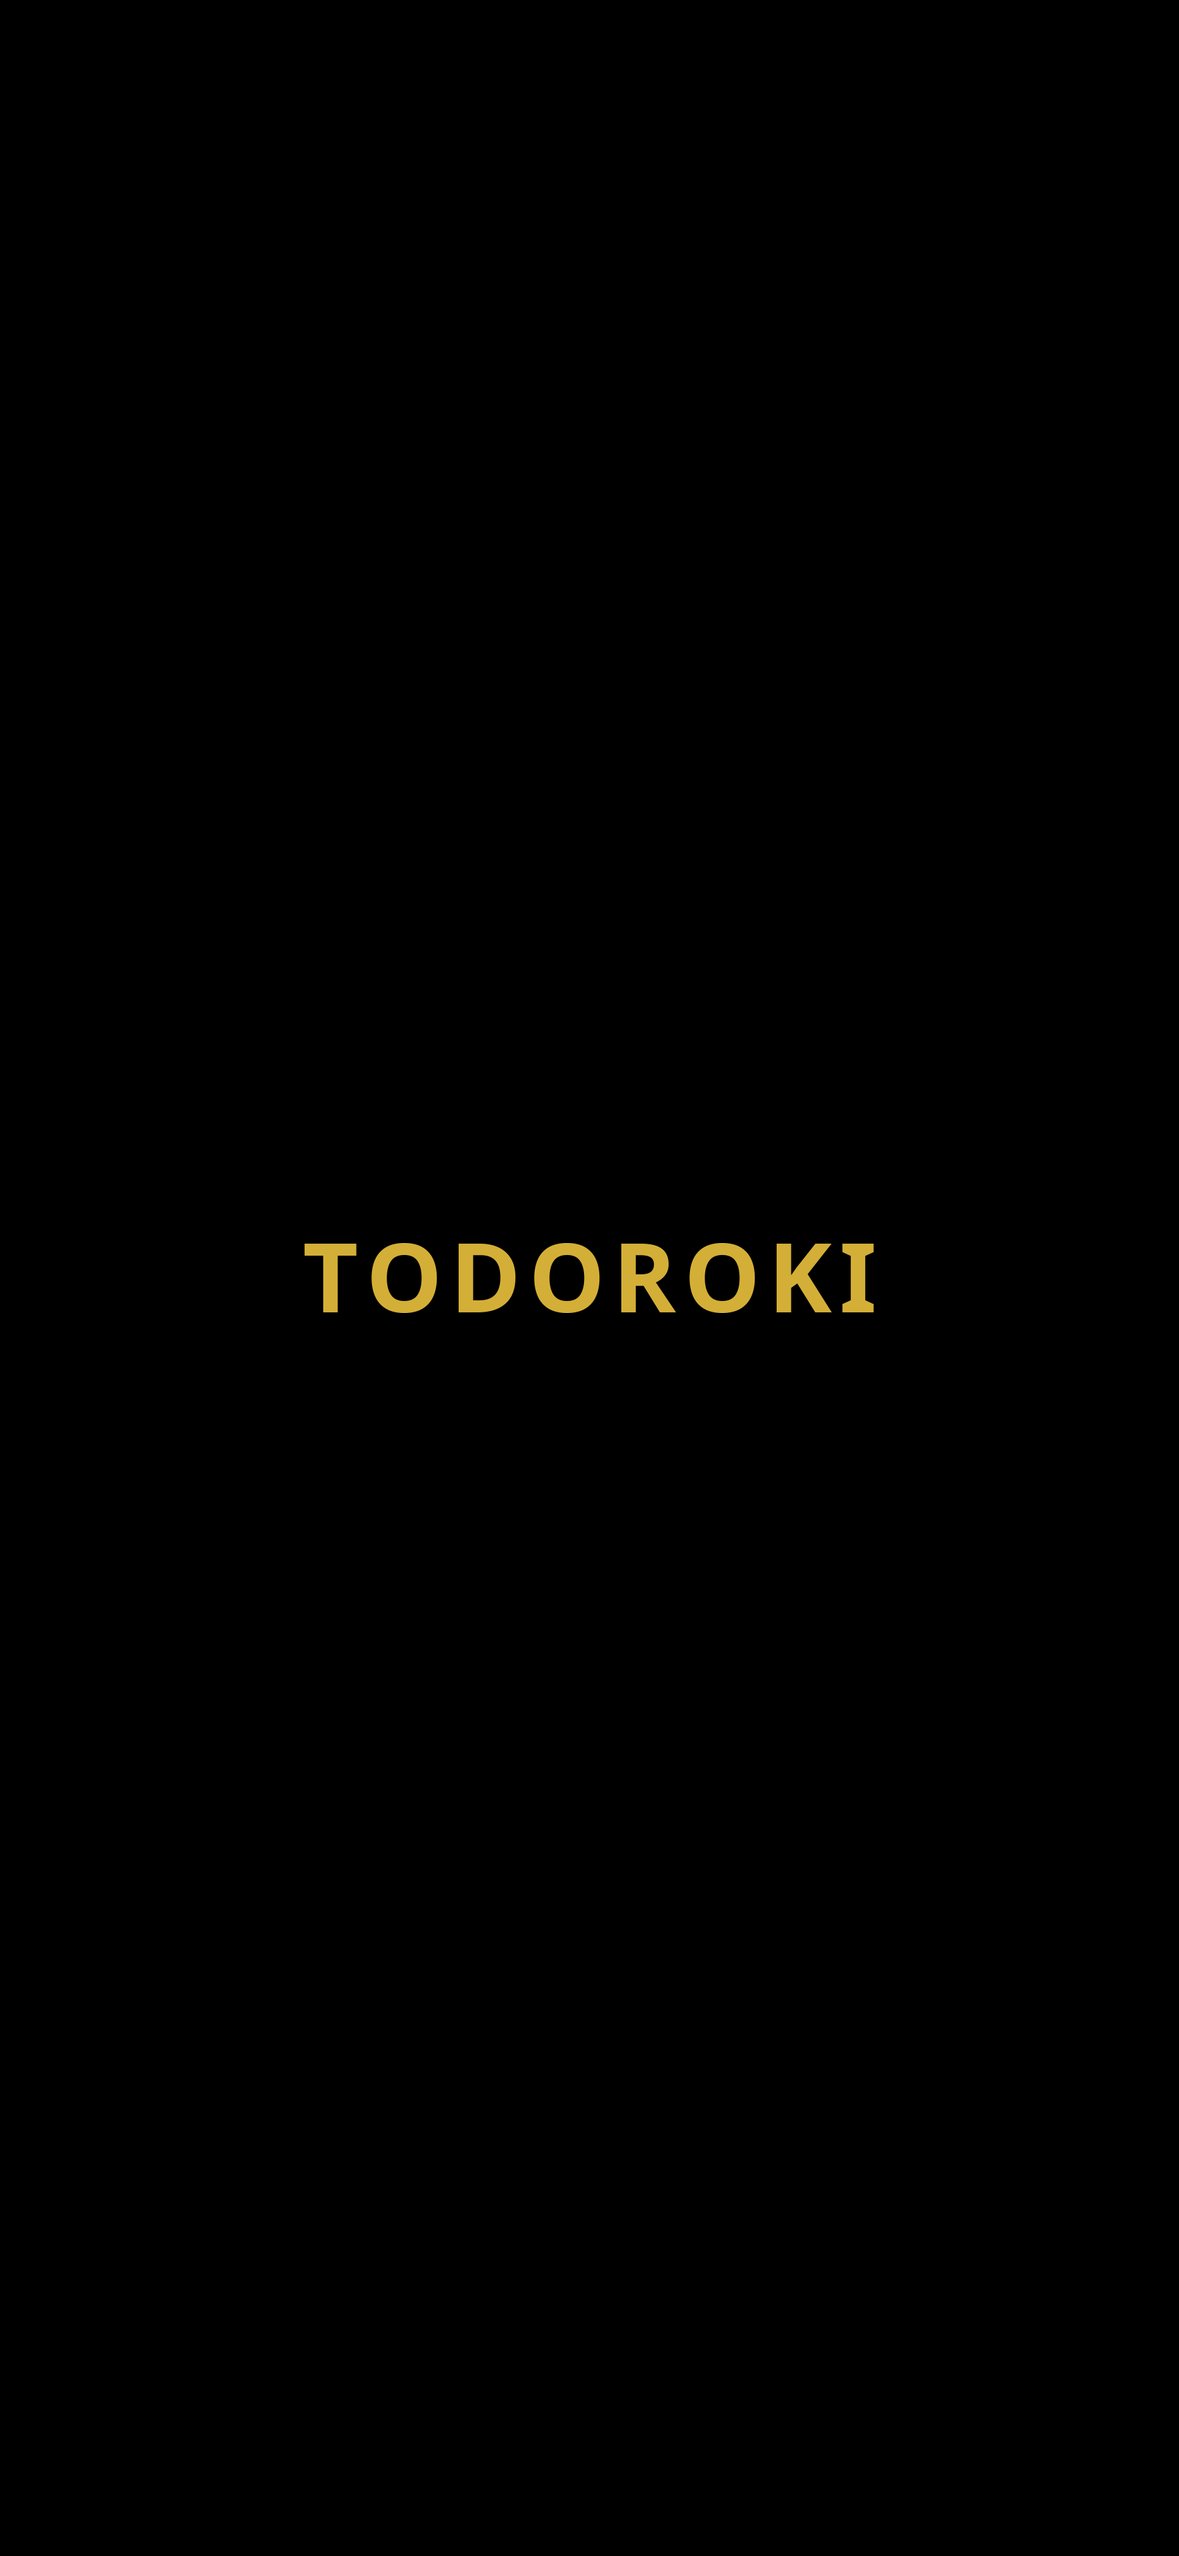
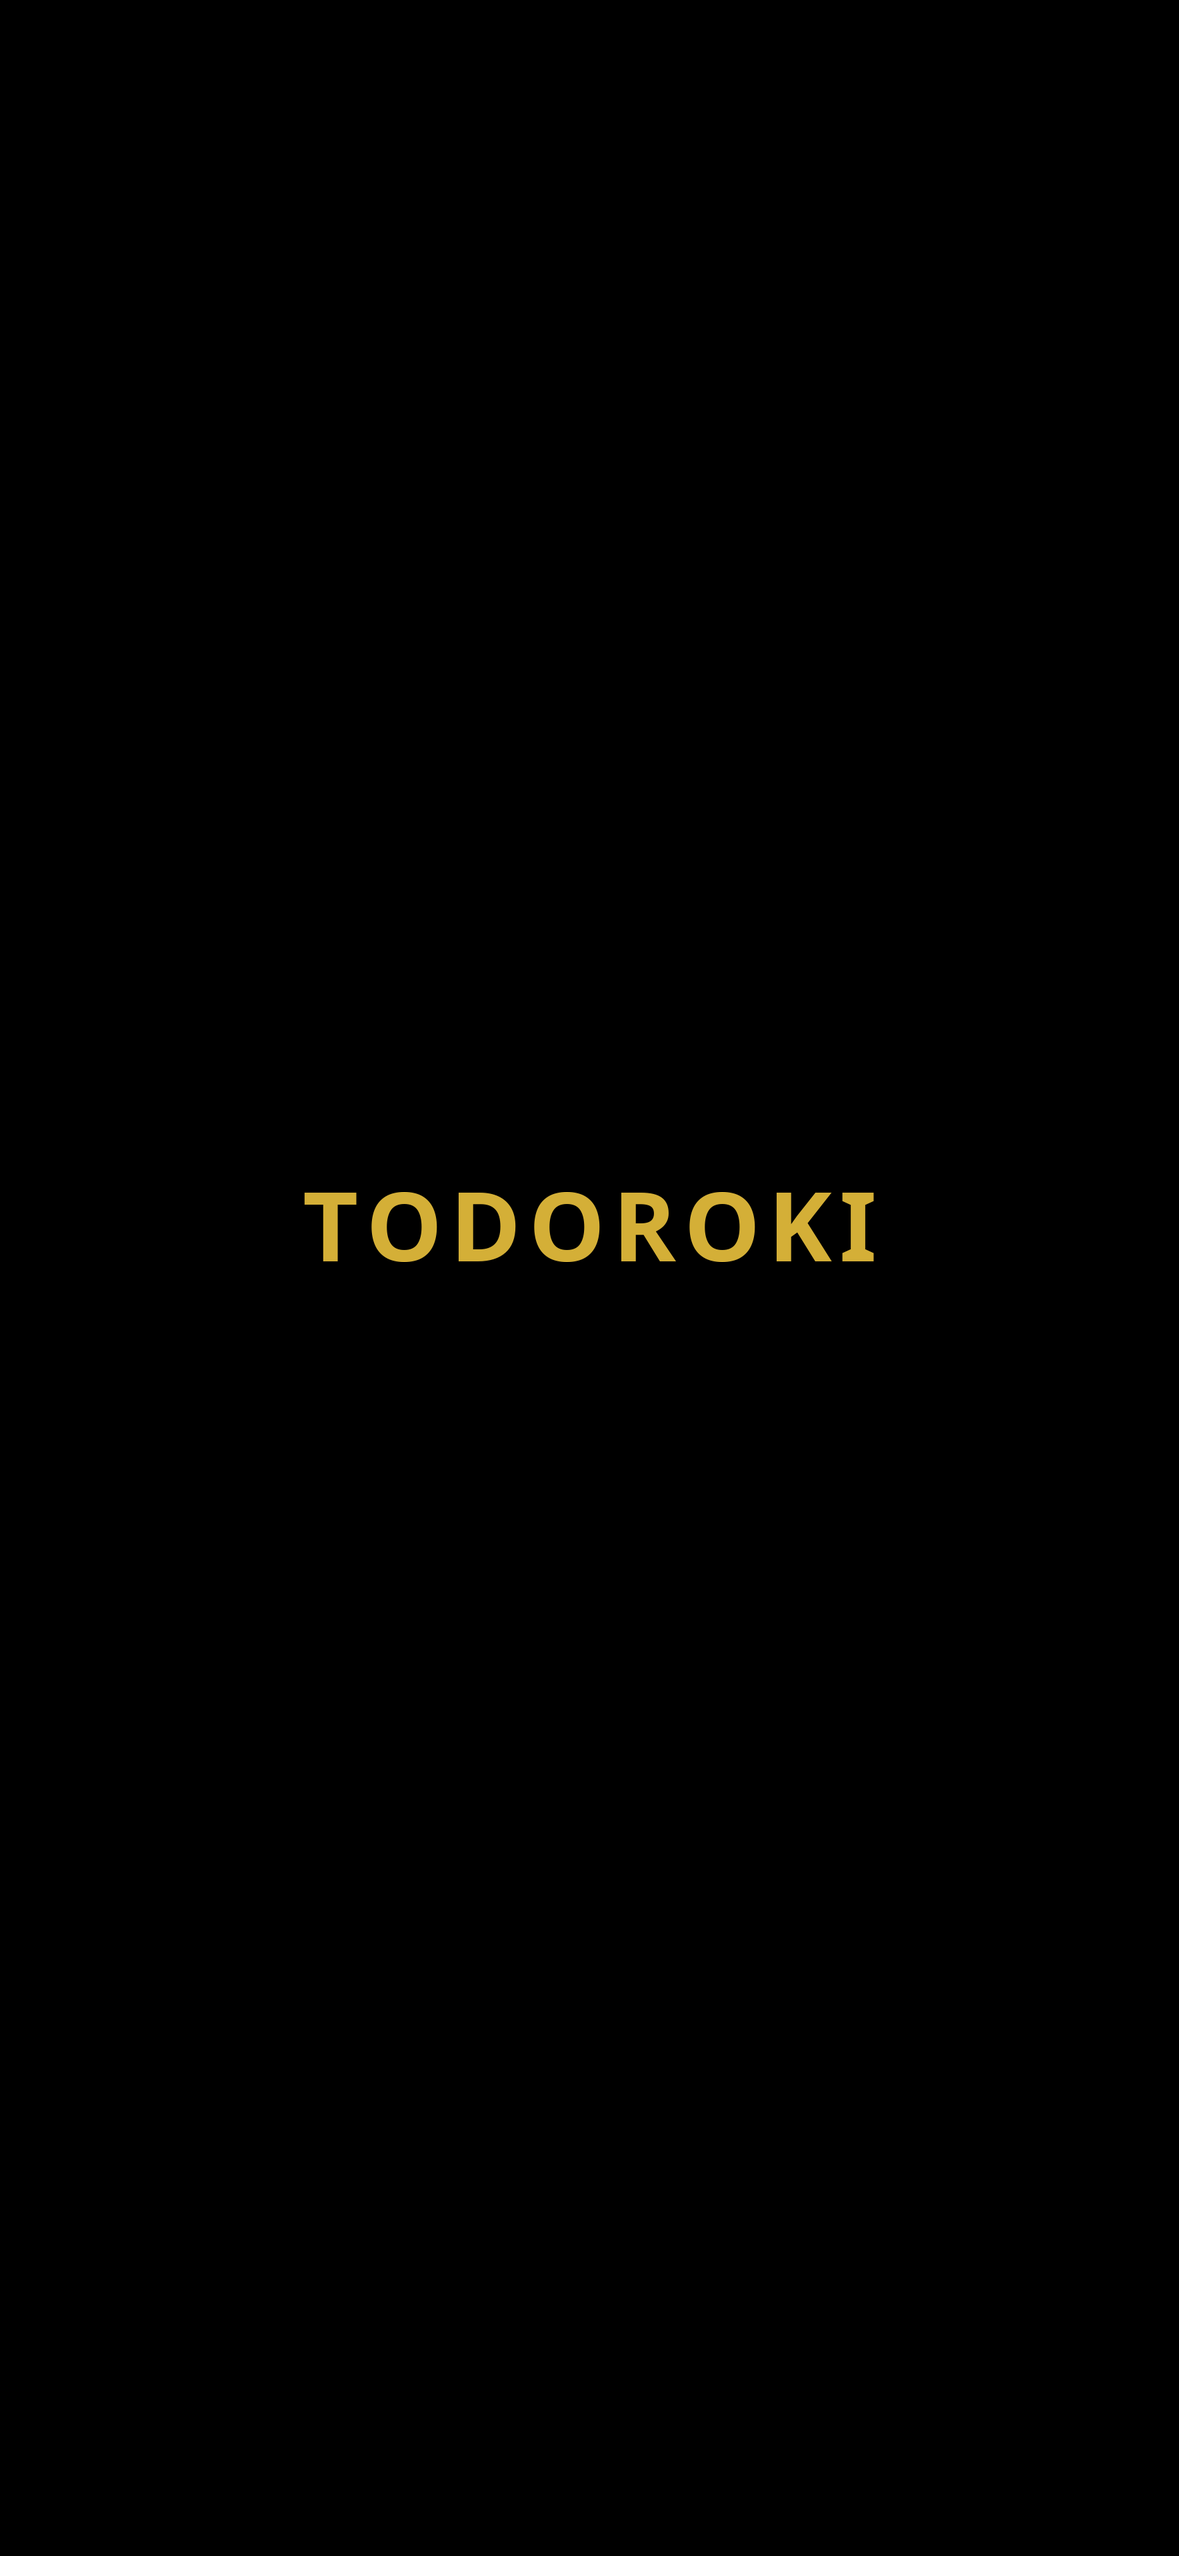
Raise launch wordmark by two percent of screen height

Changed region(s): [[0.2443, 0.4636, 0.7634, 0.5254]]

diff --git a/app/index.html b/app/index.html
@@ -8,7 +8,7 @@
   :root:has(#td-splash:not([hidden])){background:#000}
   #td-splash:not([hidden]){position:fixed;inset:0;z-index:9999;display:grid;place-items:center;background:#000;color:#fff;pointer-events:none}
 }
-.td-splash-content{width:min(90vw,560px);text-align:center}
+.td-splash-content{transform:translateY(-2vh);width:min(90vw,560px);text-align:center}
 .td-splash-title{font-family:-apple-system,BlinkMacSystemFont,"Segoe UI","Noto Sans JP",sans-serif;font-size:32px;font-weight:700;letter-spacing:.08em;line-height:1.1;color:#d4af37}
 </style></head><body>
 <div id="td-splash" hidden aria-hidden="true"><div class="td-splash-content"><div class="td-splash-title">TODOROKI</div></div></div>

diff --git a/index.html b/index.html
@@ -469,7 +469,7 @@ footer {
   :root:has(#td-splash:not([hidden])){background:#000}
   #td-splash:not([hidden]){position:fixed;inset:0;z-index:9999;display:grid;place-items:center;background:#000;color:#fff;pointer-events:none}
 }
-.td-splash-content{width:min(90vw,560px);text-align:center}
+.td-splash-content{transform:translateY(-2vh);width:min(90vw,560px);text-align:center}
 .td-splash-title{font-family:-apple-system,BlinkMacSystemFont,"Segoe UI","Noto Sans JP",sans-serif;font-size:32px;font-weight:700;letter-spacing:.08em;line-height:1.1;color:#d4af37}
 </style>
 </head>
